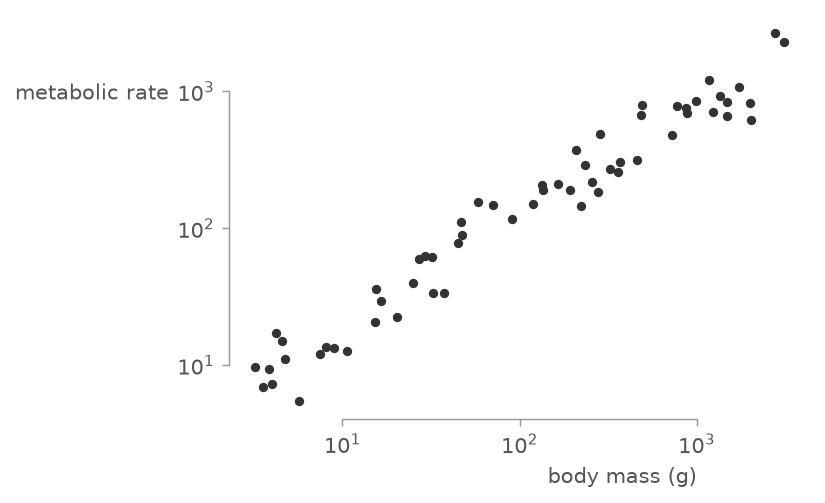
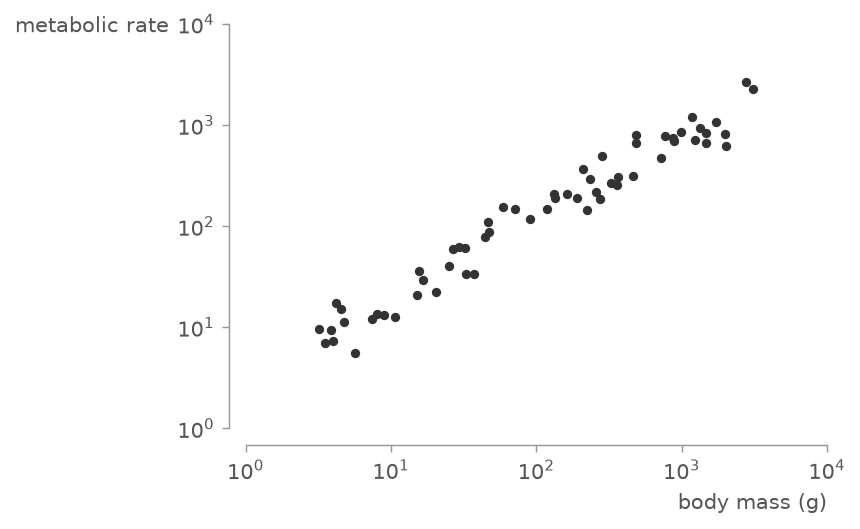
docs(gallery): make the log-log figure loose

diff --git a/examples/gallery.py b/examples/gallery.py
@@ -68,7 +68,7 @@ def scatter_loglog() -> None:
     fig, ax = plt.subplots(figsize=(5, 3.5))
     ax.set_xscale("log")
     ax.set_yscale("log")
-    vzs.apply(ax)
+    vzs.apply(ax, frame="loose")
     rng = np.random.default_rng(0)
     x = 10 ** rng.uniform(0.5, 3.5, 60)
     y = 3 * x**0.8 * 10 ** rng.normal(0, 0.15, 60)

diff --git a/README.md b/README.md
@@ -96,9 +96,9 @@ The range frame on a histogram:
 
 ![Histogram with trimmed spines and ticks inside the data range](docs/histogram.png)
 
-A power law on log-log axes; ticks at powers of ten inside the data, minor ticks gone:
+A power law on log-log axes with `frame="loose"`: offset spines end at the powers of ten bounding the data, minor ticks gone:
 
-![Log-log scatter plot of a power law with trimmed spines and decade ticks inside the data range](docs/scatter_loglog.png)
+![Log-log scatter plot of a power law with offset spines ending at powers of ten bounding the data](docs/scatter_loglog.png)
 
 ## API
 
